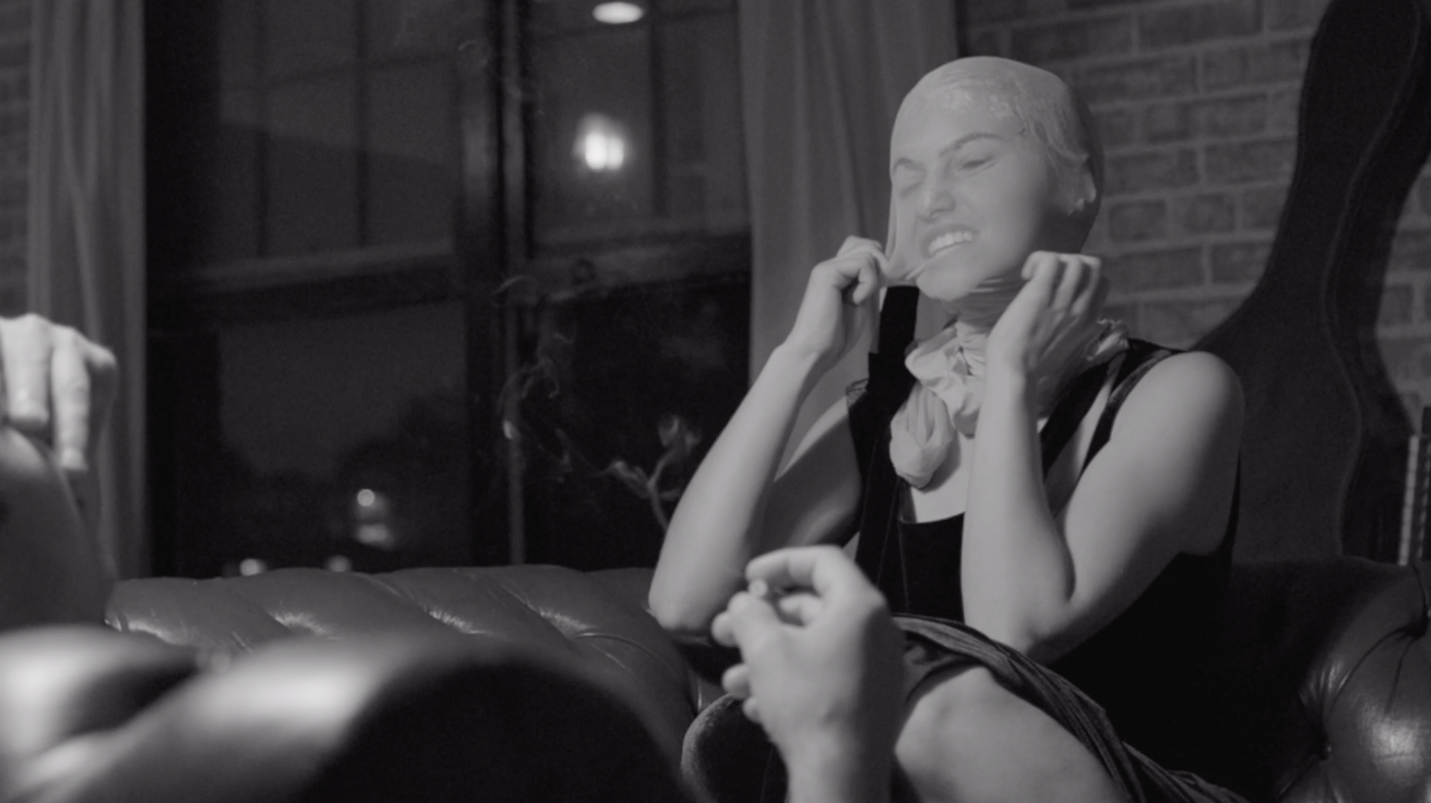
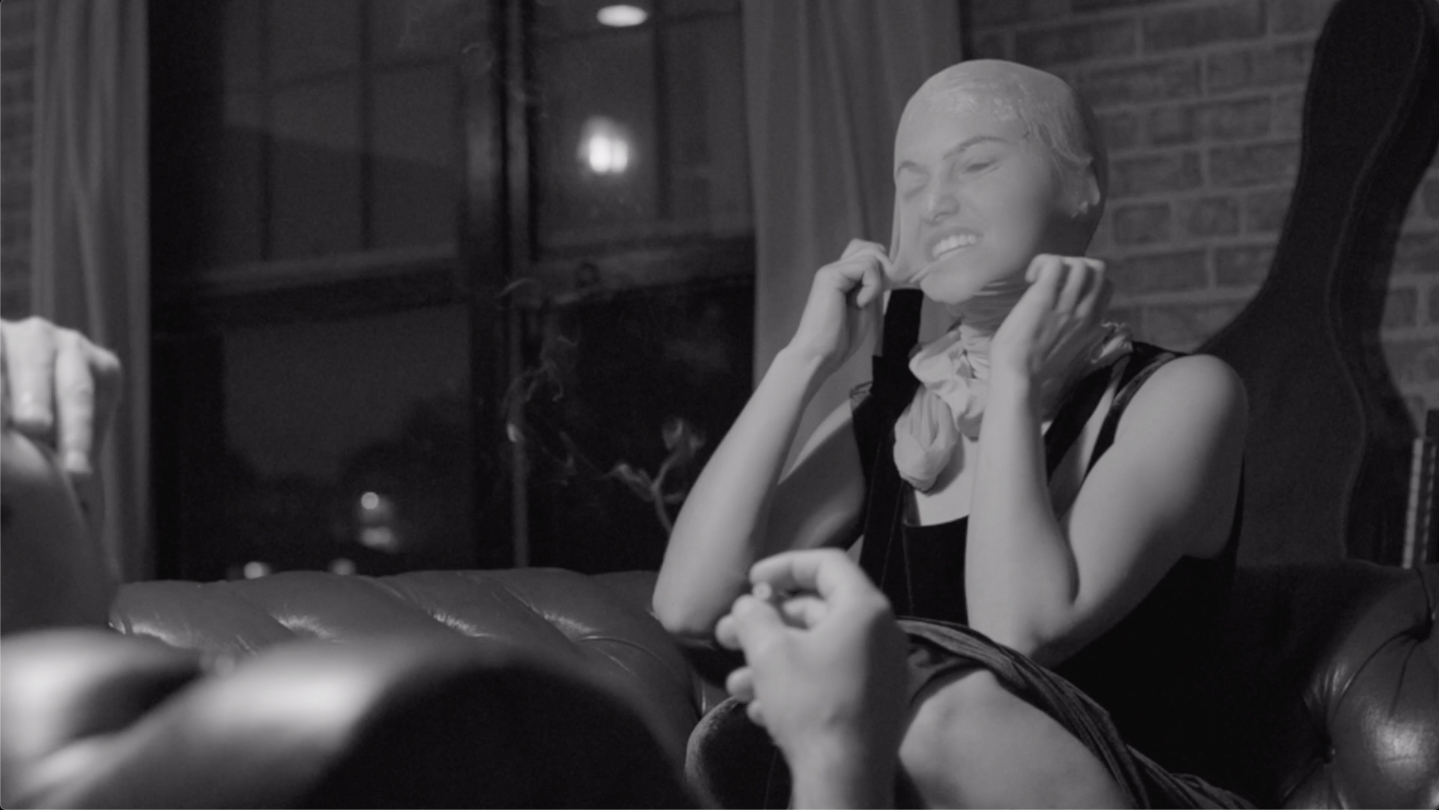
replaces screenshots

diff --git a/source/stylesheets/page-four.css.scss b/source/stylesheets/page-four.css.scss
@@ -1,7 +1,6 @@
 .pg-4 {
   height: 700px;
   .pg__video {
-    height: 360px;
     position:absolute;
     right: 0;
     top: 500px;

diff --git a/source/stylesheets/page-three.css.scss b/source/stylesheets/page-three.css.scss
@@ -12,7 +12,6 @@
   }
 
   .pg__video {
-    height: 360px;
     position:absolute;
     left: 10vw;
     top: -35px;
